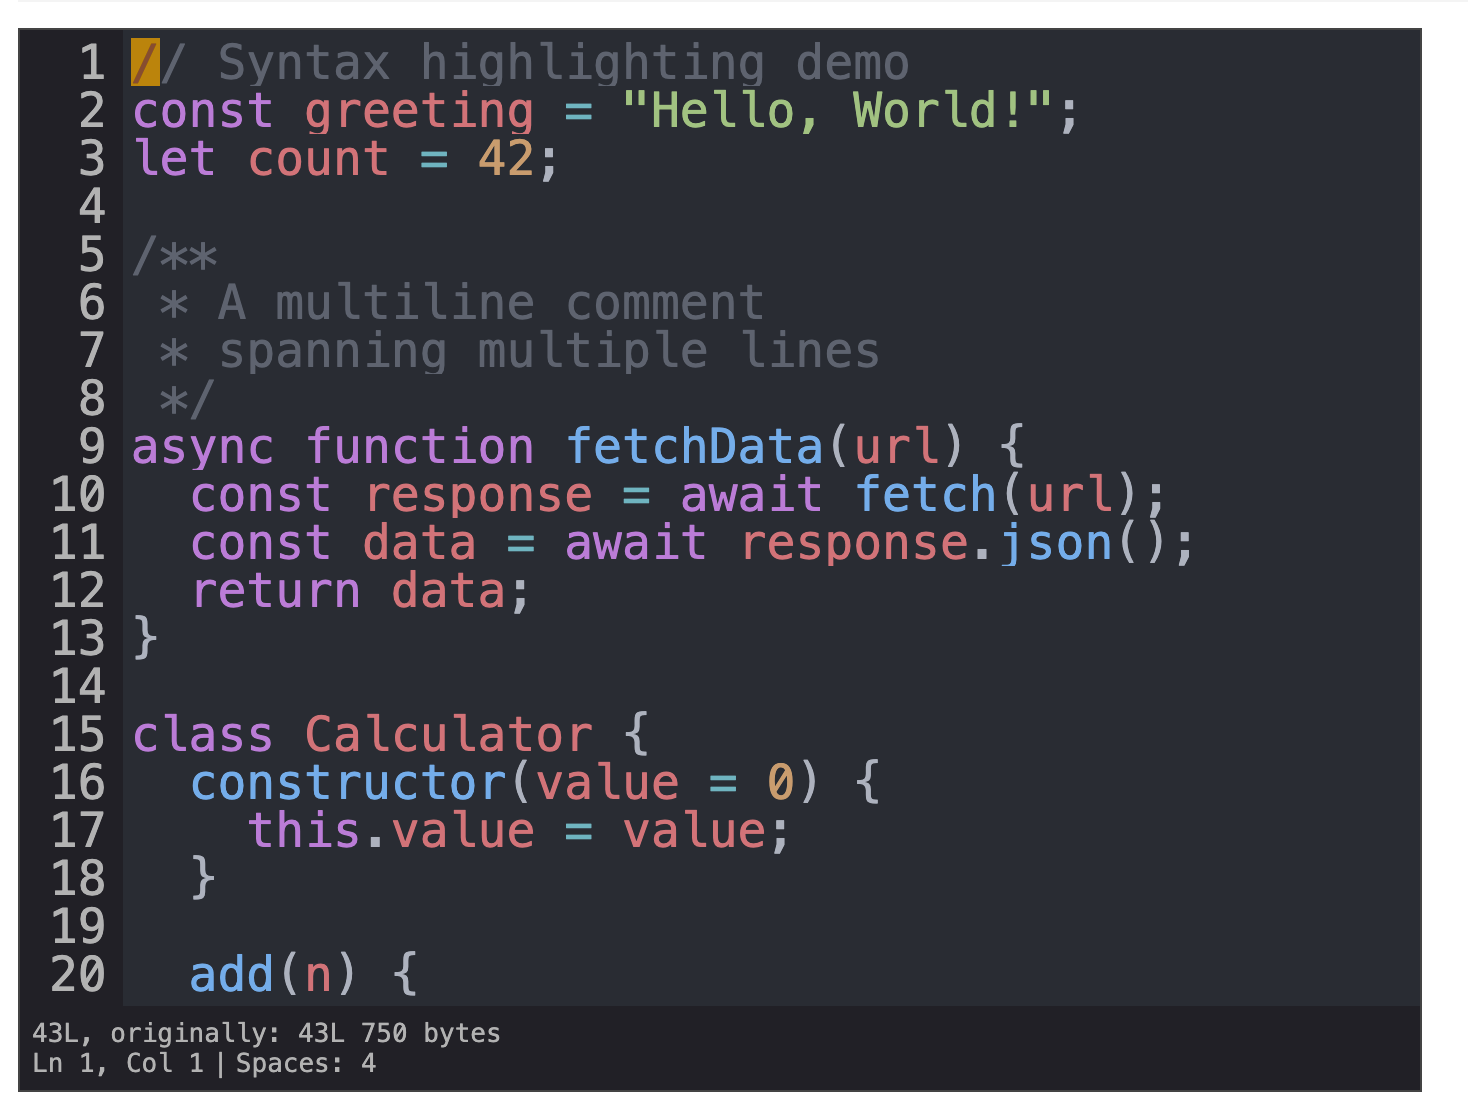
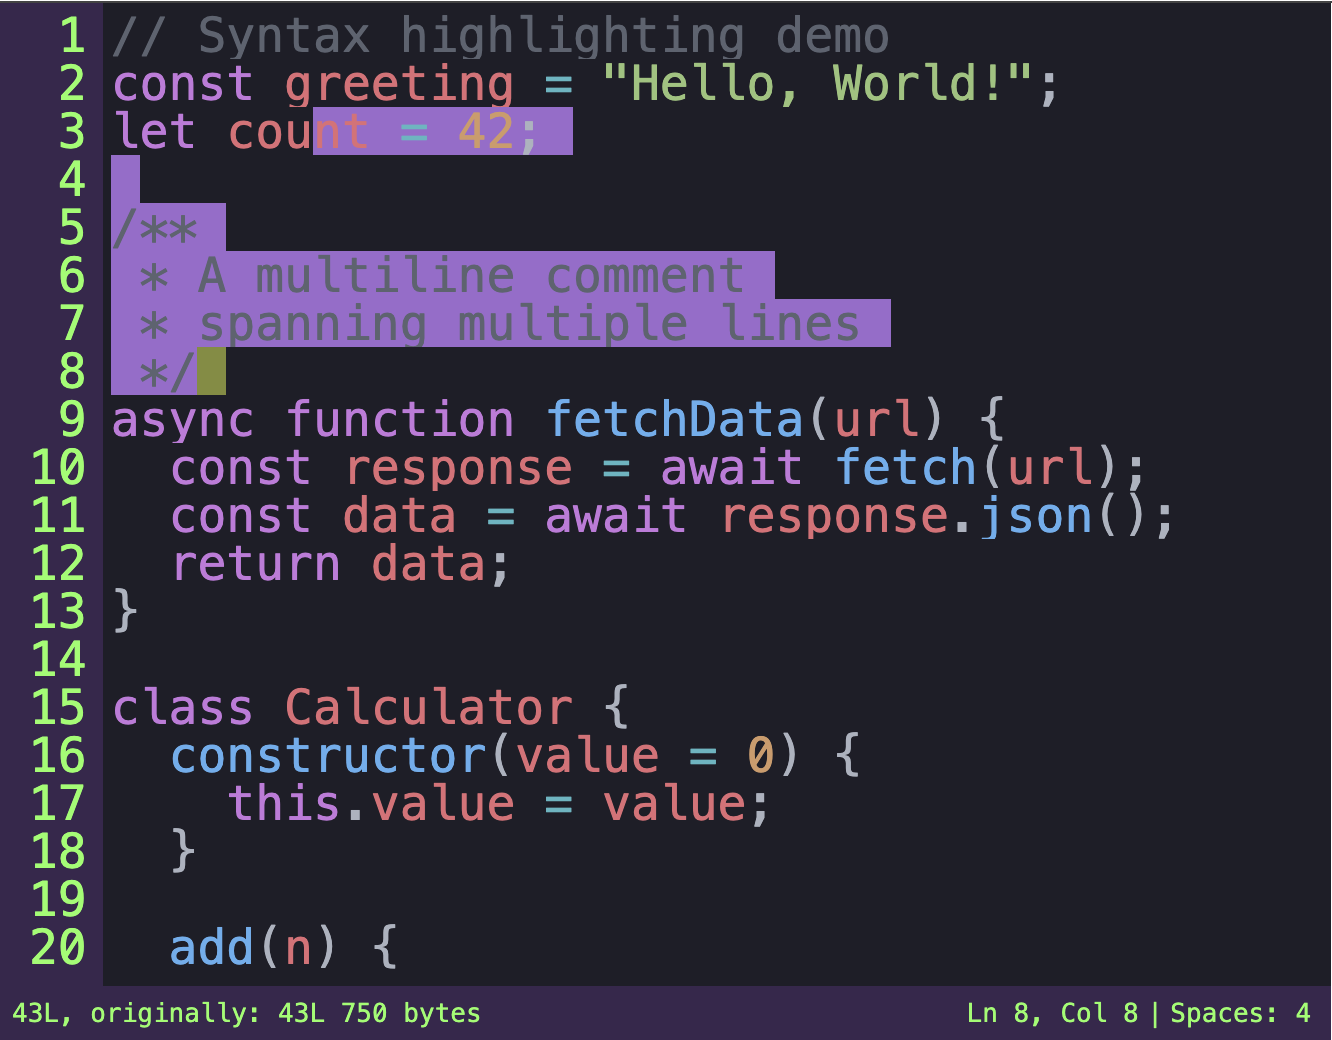
docs: update preview image

diff --git a/samples/syntax.html b/samples/syntax.html
@@ -7,7 +7,7 @@
   <script src="../extensions/syntax.js"></script>
   <link rel="stylesheet" href="../reset.css">
   <link rel="stylesheet" href="../style.css">
-  <link rel="stylesheet" href="../themes/boring.css">
+  <link rel="stylesheet" href="../themes/eva.css">
   <style>
     select, input[type="file"] { margin: 4px 8px 4px 0; }
     #perf-stats, #state-display {
@@ -59,8 +59,8 @@
   <pre>BuffeeSyntax(editor)
 editor.Syntax.setLanguage('javascript')
 editor.Syntax.enabled = true</pre>
-  <div style="width: 700px; height: 500px; border: 1px solid #444;">
-    <blockquote class="wb no-select" tabindex="0" id="editor" style="width: 100%; height: 100%;">
+  <div style="border: 1px solid #444;">
+    <blockquote class="wb no-select buffee-themepack1 eva" tabindex="0" id="editor" style="width: 100%; height: 100%;">
       <textarea class="wb-clipboard-bridge"></textarea>
       <div class="wb-content">
         <div class="wb-gutter"></div>
@@ -87,8 +87,10 @@ editor.Syntax.enabled = true</pre>
     const stateDisplay = document.getElementById('state-display');
 
     const editor = new Buffee(editorEl, {
-      colorPrimary: "#B2B2B2",
-      colorSecondary: "#212026"
+      colorPrimary: '#87FF5F',
+      colorSecondary: '#38274D',
+      viewportRows: 20,
+      viewportCols: 80
     });
 
     // Initialize syntax highlighting

diff --git a/themes/eva.css b/themes/eva.css
@@ -1,0 +1,12 @@
+/* Eva Theme - Inspired by Evangelion */
+.buffee-themepack1.eva {
+  background-color: #1e1e28;
+  color: #d4d4d4;
+}
+.buffee-themepack1.eva .wb-selection {
+  background-color: #9c6bce;
+  mix-blend-mode: normal;
+}
+.buffee-themepack1.eva .wb-cursor {
+  background-color: #00d9e9;
+}
